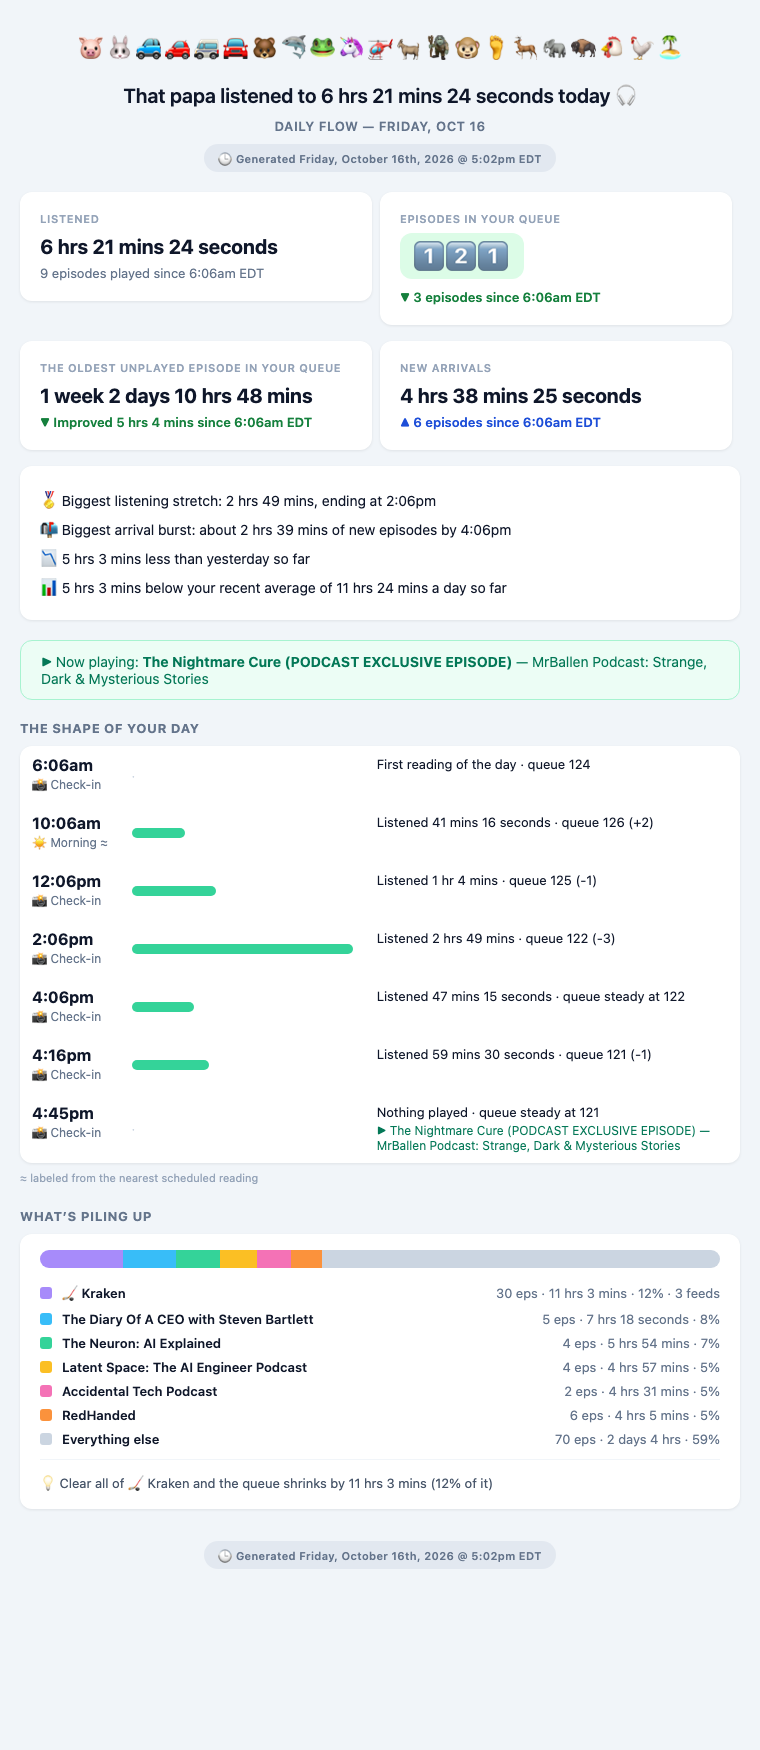
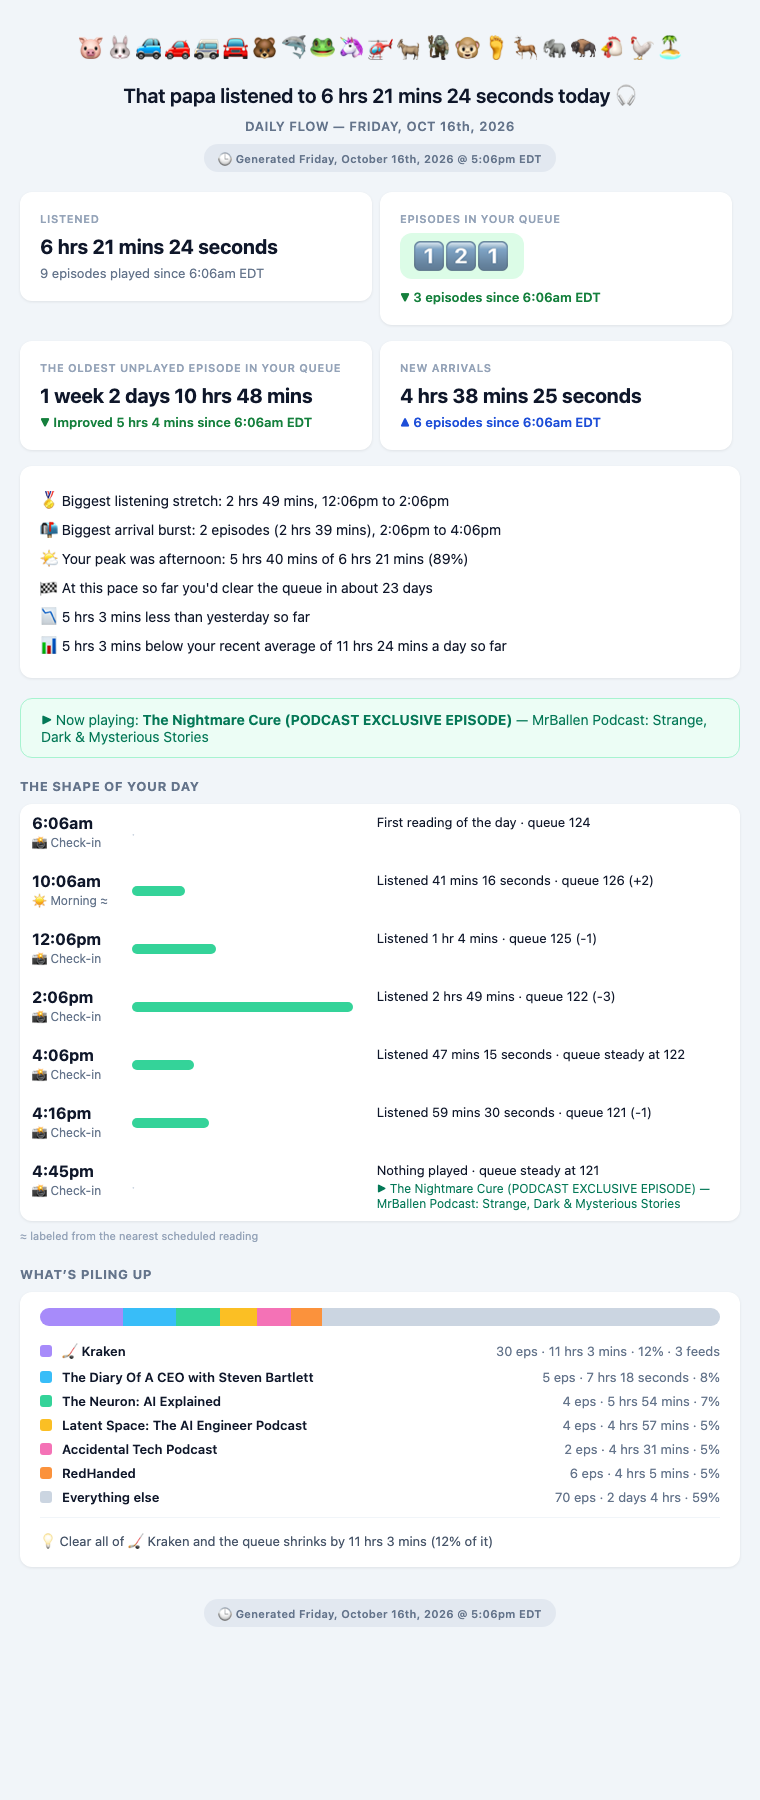
Flow web report: start and end times on the stretch and burst, more insights, full date in the heading
The biggest listening stretch and arrival burst now name when they started and
ended, and the burst says how many episodes landed. New insights: the part of
the day that was your peak, and how long the queue would take to clear at
today's pace. The heading carries the full date, with a lowercase ordinal.

diff --git a/flow.py b/flow.py
@@ -227,6 +227,7 @@ def summarize_day(history, day, tz=None):
             "first": prev is None,
             "played": 0 if prev is None else sn["played_seconds"],
             "arrivals": arrivals_seconds(prev, sn) if prev else None,
+            "arrivals_count": arrivals_count(prev, sn) if prev else None,
             "queue_delta": (sn["queue_count"] - prev["queue_count"]) if prev else None,
         })
         prev = sn
@@ -236,12 +237,44 @@ def summarize_day(history, day, tz=None):
     landed = [w for w in windows if w["arrivals"]]
     out["biggest_arrival"] = max(landed, key=lambda w: w["arrivals"]) if landed else None
     out["closed"] = any(sn["label"] == "evening" for sn in snaps)
+    out["by_part"] = listening_by_part(windows, tz)
+    first_dt, last_dt = parse_utc(first["ts"]), parse_utc(last["ts"])
+    out["elapsed_hours"] = (last_dt - first_dt).total_seconds() / 3600
     out["yesterday_listened"], out["recent_average"] = day_context(history, day, tz)
     shows = [sn for sn in snaps if sn.get("by_show")]
     out["by_show_snapshot"] = shows[-1] if shows else None
     playing = [sn for sn in snaps if sn.get("now_playing")]
     out["now_playing"] = playing[-1]["now_playing"] if playing else None
     return out
+
+
+PARTS = (
+    (4, 12, "🌅", "morning"),
+    (12, 17, "🌤", "afternoon"),
+    (17, 22, "🌆", "evening"),
+    (22, 28, "🌙", "late night"),
+)
+
+
+def part_of(dt_local):
+    h = dt_local.hour if dt_local.hour >= DAY_STARTS_HOUR else dt_local.hour + 24
+    for lo, hi, icon, name in PARTS:
+        if lo <= h < hi:
+            return icon, name
+    return PARTS[-1][2], PARTS[-1][3]
+
+
+def listening_by_part(windows, tz=None):
+    """Seconds listened per part of the day, each window credited to the part
+    of the day its reading was taken in."""
+    totals = {}
+    for w in windows:
+        if w.get("first") or w["played"] <= 0:
+            continue
+        icon, name = part_of(local_dt(w["snap"], tz))
+        row = totals.setdefault(name, {"icon": icon, "name": name, "seconds": 0})
+        row["seconds"] += w["played"]
+    return sorted(totals.values(), key=lambda r: -r["seconds"])
 
 
 def day_context(history, day, tz=None):
@@ -327,6 +360,16 @@ def clock(snap, tz=None):
     return local_dt(snap, tz).strftime("%-I:%M%p").lower()
 
 
+def pretty_day_full(day):
+    """"Friday, Oct 16th, 2026" """
+    return f"{day.strftime('%A, %b')} {rr.ordinal(day.day)}, {day.year}"
+
+
+def upper_keep_ordinal(text):
+    """Uppercase for a heading, but leave the ordinal suffix lowercase: 16th, not 16TH."""
+    return re.sub(r"(\d)(ST|ND|RD|TH)\b", lambda m: m.group(1) + m.group(2).lower(), text.upper())
+
+
 def pretty_day(day):
     return day.strftime("%A, %b %-d")
 
@@ -381,6 +424,23 @@ def window_sentence(w):
     return " · ".join(bits)
 
 
+def pace_line(s):
+    """At the net pace so far, how long until the queue is clear."""
+    if s.get("elapsed_hours", 0) < 3:
+        return None
+    delta = s["queue_seconds_delta"]
+    qe = s["queue_end"]
+    so_far = "" if s["closed"] else " so far"
+    if delta >= 0:
+        return ("📈", f"The queue isn't shrinking yet{so_far}: arrivals are keeping up with your listening")
+    per_day = -delta / s["elapsed_hours"] * 24
+    days = qe["queue_seconds"] / per_day
+    if days > 60:
+        return ("🐢", f"At this pace{so_far} it would take over 60 days to clear the queue")
+    return ("🏁", f"At this pace{so_far} you'd clear the queue in about "
+                  f"{days:.0f} day{'' if round(days) == 1 else 's'}")
+
+
 def vs_lines(s):
     """Plain comparisons: against yesterday and against the recent average."""
     so_far = "" if s["closed"] else " so far"
@@ -404,10 +464,24 @@ def highlights(s, tz=None):
     out = []
     b = s.get("biggest_listen")
     if b:
-        out.append(("🏅", f"Biggest listening stretch: {dur_n(b['played'])}, ending at {clock(b['snap'], tz)}"))
+        start = local_dt(b["snap"], tz, key="since").strftime("%-I:%M%p").lower()
+        out.append(("🏅", f"Biggest listening stretch: {dur_n(b['played'])}, {start} to {clock(b['snap'], tz)}"))
     a = s.get("biggest_arrival")
     if a and a["arrivals"] >= 1800:
-        out.append(("📬", f"Biggest arrival burst: about {dur_n(a['arrivals'])} of new episodes by {clock(a['snap'], tz)}"))
+        start = local_dt(a["snap"], tz, key="since").strftime("%-I:%M%p").lower()
+        n = a["arrivals_count"]
+        out.append(("📬", f"Biggest arrival burst: {n} episode{'' if n == 1 else 's'} "
+                          f"({dur_n(a['arrivals'])}), {start} to {clock(a['snap'], tz)}"))
+    parts = s.get("by_part") or []
+    if parts and s["listened_seconds"] >= 3600:
+        top = parts[0]
+        pct = 100.0 * top["seconds"] / s["listened_seconds"]
+        if pct >= 40:
+            out.append((top["icon"], f"Your peak was {top['name']}: {dur_n(top['seconds'])} of "
+                                     f"{dur_n(s['listened_seconds'])} ({pct:.0f}%)"))
+    pace = pace_line(s)
+    if pace:
+        out.append(pace)
     if s["drought"] and s["drought"][0] >= 3 * 3600:
         span, x, y = s["drought"]
         mid_dash = any(d["start"]["ts"] < y and d["end"]["ts"] > x for d in s["dashes"])
@@ -717,7 +791,7 @@ def _page(title, body, headline=None, generated=None, tz=None, queue_html=""):
 <div style="max-width:720px;margin:0 auto;padding:32px 20px;">
 <div style="text-align:center;font-size:25px;line-height:1.3;margin-bottom:16px;white-space:nowrap;">{emoji_row_html()}</div>
 {headline_html}
-<div style="text-align:center;font-size:13px;font-weight:600;color:#64748b;text-transform:uppercase;letter-spacing:0.6px;">{html.escape(title)}</div>
+<div style="text-align:center;font-size:13px;font-weight:600;color:#64748b;letter-spacing:0.6px;">{html.escape(upper_keep_ordinal(title))}</div>
 <div style="text-align:center;margin:10px 0 4px;">{pill}</div>
 {body}
 {queue_html}
@@ -812,7 +886,7 @@ def piling_up_html(s):
 
 
 def render_day_html(s, tz=None, generated=None, d=None):
-    title = f"Daily Flow — {pretty_day(s['day'])}"
+    title = f"Daily Flow — {pretty_day_full(s['day'])}"
     if not s["snapshots"]:
         return _page(title, "<p>No snapshots recorded.</p>", None, generated, tz)
     qs, qe = s["queue_start"], s["queue_end"]

diff --git a/tests/test_flow.py b/tests/test_flow.py
@@ -367,6 +367,52 @@ class StoryTests(unittest.TestCase):
         self.assertIn("▲ 9 episodes since 9:00am EDT", red)
         self.assertIn("▲ 1 episode since", flow.arrivals_line(1, 100, 10000, since))
 
+    def test_biggest_stretch_and_burst_show_start_and_end_and_counts(self):
+        history = [
+            snap("2026-10-16T09:00", "morning", 120, 300000, 900000, 0, 0),
+            snap("2026-10-16T12:00", "manual", 118, 295000, 880000, 3, 7200, "2026-10-16T09:00"),
+            snap("2026-10-16T14:00", "manual", 121, 310000, 880000, 1, 600, "2026-10-16T12:00"),
+        ]
+        s = flow.summarize_day(history, datetime.date(2026, 10, 16), NY)
+        text = " ".join(line for _, line in flow.highlights(s, NY))
+        self.assertIn("Biggest listening stretch: 2 hrs, 9:00am to 12:00pm", text)
+        # 121-118 played 1 = 4 episodes, 310000-295000+600 = 15600s
+        self.assertIn("Biggest arrival burst: 4 episodes (4 hrs 20 mins), 12:00pm to 2:00pm", text)
+
+    def test_listening_by_part_of_day_and_the_peak(self):
+        history = [
+            snap("2026-10-16T08:00", "morning", 120, 300000, 900000, 0, 0),
+            snap("2026-10-16T10:00", "manual", 119, 299000, 890000, 1, 1800),
+            snap("2026-10-16T15:00", "manual", 117, 290000, 880000, 4, 9000),
+            snap("2026-10-16T22:30", "evening", 118, 292000, 870000, 1, 900),
+        ]
+        s = flow.summarize_day(history, datetime.date(2026, 10, 16), NY)
+        self.assertEqual([p["name"] for p in s["by_part"]], ["afternoon", "morning", "late night"])
+        text = " ".join(line for _, line in flow.highlights(s, NY))
+        self.assertIn("Your peak was afternoon: 2 hrs 30 mins of 3 hrs 15 mins (77%)", text)
+
+    def test_pace_line(self):
+        history = [
+            snap("2026-10-16T08:00", "morning", 120, 350000, 900000, 0, 0),
+            snap("2026-10-16T20:00", "evening", 100, 300000, 880000, 10, 30000),
+        ]
+        s = flow.summarize_day(history, datetime.date(2026, 10, 16), NY)
+        # shrank 50000s in 12h = 100000s/day; 300000s left = 3 days
+        self.assertIn("clear the queue in about 3 days", flow.pace_line(s)[1])
+        history[1] = snap("2026-10-16T20:00", "evening", 125, 360000, 900000, 2, 3000)
+        s = flow.summarize_day(history, datetime.date(2026, 10, 16), NY)
+        self.assertIn("isn't shrinking", flow.pace_line(s)[1])
+        short = flow.summarize_day(history[:1] + [snap("2026-10-16T09:00", "manual")], datetime.date(2026, 10, 16), NY)
+        self.assertIsNone(flow.pace_line(short))
+
+    def test_heading_has_the_full_date_with_a_lowercase_ordinal(self):
+        self.assertEqual(flow.pretty_day_full(datetime.date(2026, 10, 16)), "Friday, Oct 16th, 2026")
+        self.assertEqual(flow.pretty_day_full(datetime.date(2026, 10, 22)), "Thursday, Oct 22nd, 2026")
+        self.assertEqual(flow.upper_keep_ordinal("Daily Flow — Friday, Oct 16th, 2026"),
+                         "DAILY FLOW — FRIDAY, OCT 16th, 2026")
+        page = flow.render_day_html(self.s, NY)
+        self.assertIn("DAILY FLOW — FRIDAY, OCT 16th, 2026", page)
+
     def test_labels_have_names_and_approximate_ones_are_marked(self):
         self.assertEqual(flow.label_name({"label": "dash-end"}), "🏁 Dash end")
         self.assertEqual(flow.label_name({"label": "manual"}), "📸 Check-in")
@@ -487,7 +533,7 @@ class RenderTests(unittest.TestCase):
 
     def test_browser_tab_title_is_title_cased(self):
         page = flow.render_day_html(self.s, NY)
-        self.assertIn("<title>Daily Flow — Friday, Oct 16 · Podcast Queue Report</title>", page)
+        self.assertIn("<title>Daily Flow — Friday, Oct 16th, 2026 · Podcast Queue Report</title>", page)
         self.assertNotIn("Daily flow", page)
 
     def test_email_payload_matches_send_email_layout(self):
